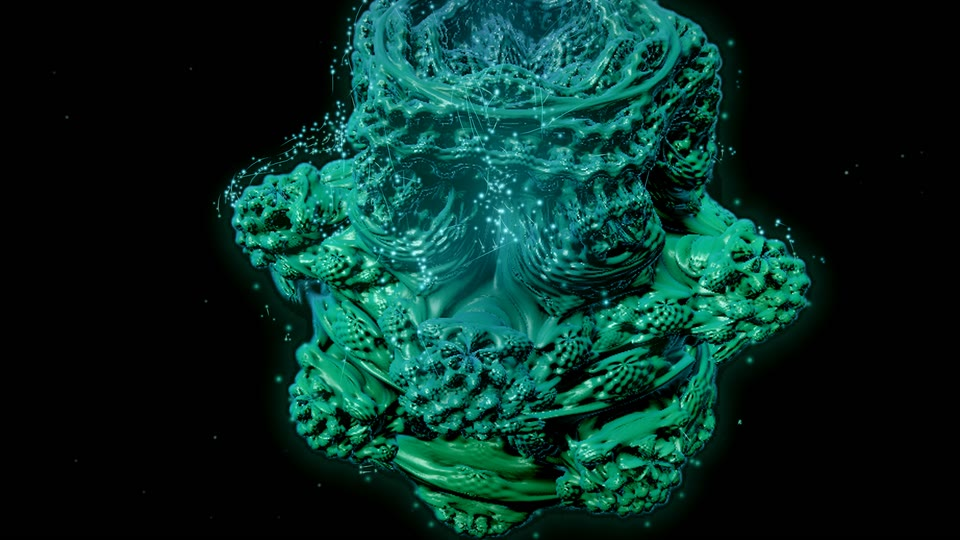
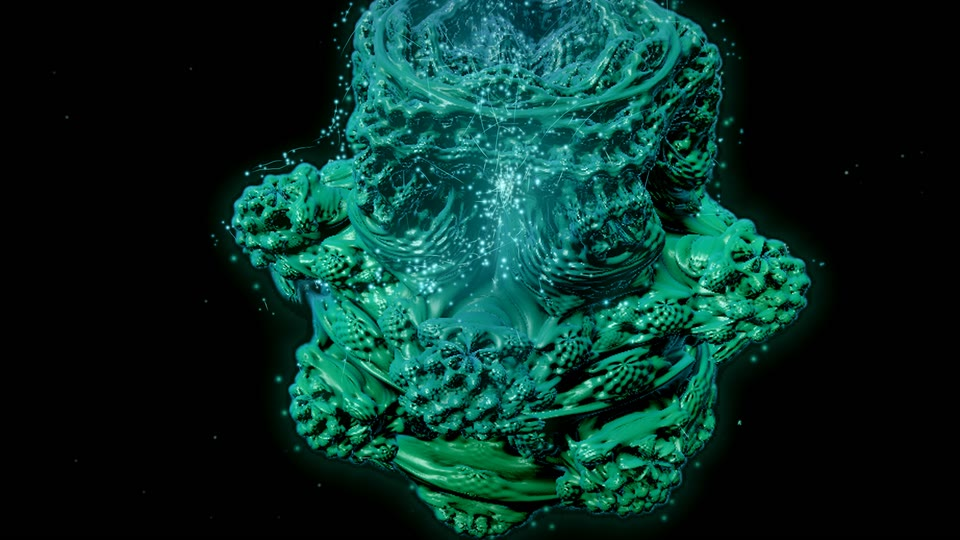
Fractal Continuum life: a gathering's halo is a circle on the surface, not on the map
The orbit the simulation keeps is drawn out to the map ellipse that the chart's stretch turns back
into a circle (a halo's surface roundness 0.71 -> 0.86 between 60 and 110 degrees from the pole).
The active-site test counts the motes drawn to a site (visits saturate at what a site carries).

diff --git a/tests/life-fractal.test.js b/tests/life-fractal.test.js
@@ -56,16 +56,18 @@ test('The life stays on the inhabited surface, in its altitude band; lifecycles 
   run(f,3000);assert.equal(f.digest(),e.digest(),'same inputs, same state');
   const snap=e.snapshot();run(e,200);const d1=e.digest();e.restore(snap);run(e,200);assert.equal(e.digest(),d1,'restore gives the same future');
 });
-test('Motes gather at active sites: a site being worked on (energy, nourishment) draws a gathering that circles it',async()=>{
+test('Motes gather at active sites: a site being worked on (energy, nourishment) draws motes to it and a gathering circles it',async()=>{
   const {eco,life}=await setup();const a=eco(),b=eco();const both=n=>{run(a,n);run(b,n);};both(600);
   // the least visited file site within the life's reach
   const S=a.sites;let k=-1;for(let s=0;s<S.count;s++)if(S.kind[s]!==1&&Math.hypot(S.x[s],S.z[s])<life.SOFT-2&&(k<0||S.visits[s]<S.visits[k]))k=s;const id=S.ids[k];
+  // motes travelling to it or circling it (what a site holds is bounded: visits saturate, the draw does not)
+  const drawn=e=>{let n=0;for(let i=0;i<e.capacity;i++)if(e.alive[i]&&e.sp[i]===life.MOTE&&(e.mode[i]===1||e.mode[i]===2)&&e.tgt[i]===k)n++;return n;};
   // edits on one file: a small perturbation and nourishment every few seconds, as the driver gives them
   let na=0,nb=0,circ=0;
   for(let t=0;t<40;t++){a.influence({kind:'pulse',site:id,amount:.6});a.influence({kind:'nourish',site:id,amount:.4});both(40);
-    if(t>=10){na+=a.sites.visits[k];nb+=b.sites.visits[k];for(let i=0;i<a.capacity;i++)if(a.alive[i]&&a.sp[i]===life.MOTE&&a.mode[i]===2&&a.tgt[i]===k)circ++;}}
-  console.log(`# visits at the active site: ${na.toFixed(0)}, without the work ${nb.toFixed(0)} (circling ${circ})`);
-  assert(na>nb*2+20,`the active site draws a gathering: ${na.toFixed(0)} vs ${nb.toFixed(0)}`);assert(circ>60,'they circle it');
+    if(t>=10){na+=drawn(a);nb+=drawn(b);for(let i=0;i<a.capacity;i++)if(a.alive[i]&&a.sp[i]===life.MOTE&&a.mode[i]===2&&a.tgt[i]===k)circ++;}}
+  console.log(`# motes drawn to the active site: ${na}, without the work ${nb} (circling ${circ})`);
+  assert(na>nb*1.8+50,`the active site draws the motes: ${na} vs ${nb}`);assert(circ>60,'they circle it');
 });
 test('A failing run opens a void over its site and the motes wait at its edge; after the recovery they come back within seconds',async()=>{
   const {eco,life}=await setup();const e=eco(),c=eco();const both=n=>{run(e,n);run(c,n);};both(900);

diff --git a/public/worlds/life/fractal.js b/public/worlds/life/fractal.js
@@ -8,7 +8,8 @@
 // is an azimuthal equidistant map of that sphere around the form's pole (y up: the bulbs' axis of symmetry): the
 // direction at colatitude θ and longitude φ is the point (K θ cos φ, K θ sin φ), and the plane's height y is the
 // altitude above the surface. Arcs from the pole keep their length; across them the map stretches by θ / sin θ (1 at
-// the pole, 1.57 at the equator), the price of one chart over almost the whole surface. The south pole, which the map
+// the pole, 1.57 at the equator), the price of one chart over almost the whole surface (a gathering's orbit is corrected
+// for it: a circle on the surface). The south pole, which the map
 // tears open into its rim, is never inhabited: the life is held within SOFT (135 degrees of the pole: 85 % of the
 // surface; the regions lie between 35 degrees south and 70 north), so nothing crosses the seam. Regions and sites keep
 // their directions, so the habitat sits still in the map whatever the form does (it unfolds, swells, breathes,
@@ -202,6 +203,12 @@ export function createFractalGrammar(recipe){
         if(s===MOTE){
           // a recovered site draws the explorers around it back (the repaired region fills again)
           if(m===MODE.explore)for(let q=0;q<nRev;q++){const k=revived[q],ex=S.x[k]-x,ez=S.z[k]-z,d=hyp(ex,ez);if(d<9&&d>S.r[k]*1.5){const c=1.1*REV[k]*(1-d/9)/d;f[0]+=ex*c;f[2]+=ez*c;}}
+          // a gathering's halo is a circle on the surface, not on the map: across the arcs from the pole the map
+          // stretches by theta / sin(theta), so the orbit the simulation keeps (a circle on the map, around the site at
+          // the mote's own radius) is drawn out to the ellipse that the stretch turns back into a circle
+          if(m===MODE.orbit){const k=api.tgt[i];if(k>=0){const sx=S.x[k],sz=S.z[k],ro=hyp(sx,sz);if(ro>.5){
+            const ex=x-sx,ez=z-sz,d=hyp(ex,ez);if(d>1e-3){const sp=api.species[MOTE],R0=S.r[k]*sp.orbitRadius*(1+sp.orbitJitter*(api.fa[i*2]-.5)*2);
+              const st=stretch(sx,sz),b=(-ex*sz+ez*sx)/(ro*d),a2=1-b*b,se=1/Math.sqrt(a2+b*b/(st*st)),c=R0*(se-1)*1.2*sp.orbit/d;f[0]+=ex*c;f[2]+=ez*c;}}}}
           // seekers swim against the current, and close to their site come in to it (its pull outweighs the trail they
           // followed there)
           if(m===MODE.seek){api.flowAt(x,y,z,fl);const c0=.33*api.params.environment;f[0]-=fl[0]*c0;f[2]-=fl[2]*c0;

diff --git a/docs/worlds/fractal-continuum.md b/docs/worlds/fractal-continuum.md
@@ -229,7 +229,8 @@ is the altitude above the surface. Why this chart:
   poles or the octahedral map's folds across the southern hemisphere;
 - arcs from the pole keep their length; across them the map stretches by θ / sin θ: 1 at the pole, 1.57 at the
   equator, 2.66 at 35° south. An equal-area chart (Lambert's) would stretch the equator by 2 (and 35° south by 4.7)
-  for equal cell areas; a conformal one (stereographic) keeps shapes but shrinks the regions at 35° south 4.7 times;
+  for equal cell areas; a conformal one (stereographic) keeps shapes but shrinks the regions at 35° south 4.7 times.
+  A gathering's orbit is corrected for the stretch (a circle on the surface, not on the map);
 - the regions lie between 35° south and 70° north, and the life is held within **135° of the pole** (85 % of the
   surface): it is steered back from there, the current turns back before it, and a site beyond it (a file far down its
   region's spiral) is never chosen, so nothing reaches the seam. The southern polar cap is uninhabited.
@@ -242,7 +243,7 @@ swells, breathes and blooms under its life.
 - **Motes** (60 %): ride the surface's current and the trails, choose an active site (strength, novelty, nourishment,
   lasting conditions, the energy work and gatherings leave there, the trails to it, and a gathering already circling
   it: winner-take-more up to what a site carries; never a strained site; nearer is better), circle it in a slow halo at
-  their own radius and height and feed, then leave carrying its light (a stronger trail). Those leaving the same site
+  their own radius and height (a circle on the surface) and feed, then leave carrying its light (a stronger trail). Those leaving the same site
   follow the one who left before them, so threads of light run from site to site.
 - **Skimmers** (22 %): small flocks skimming the relief (separation, alignment, cohesion), drawn along the motes'
   trails and toward the energy of the gatherings; a flock grown too large splits.
@@ -262,9 +263,9 @@ through the driver (site conditions and field deposits; nothing is ever placed):
 
 | Intent | The life |
 |---|---|
-| `validation.failed` | The file's site is strained: a void opens over it (reach 2.4 site radii + 1.6 map units, about the world's decohering region); everything is pushed out while the strain lasts and the motes wait at its edge (in the test habitat: 20 % of the life inside it, against the same ecosystem without the failure) |
-| `validation.recovered` | The strain is cleared and for about 25 s the repaired site draws the motes back (14 motes within its reach before, 43 ten seconds after); they travel to it in the valid colour |
-| `structure.modified`, an agent's tool use on a file | A small perturbation and energy at the file's site: the active site draws a gathering (3.2 times the visits of the same site without the work) |
+| `validation.failed` | The file's site is strained: a void opens over it (reach 2.4 site radii + 1.6 map units, about the world's decohering region); everything is pushed out while the strain lasts and the motes wait at its edge (in the test habitat: 7 % of the life inside it, against the same ecosystem without the failure) |
+| `validation.recovered` | The strain is cleared and for about 25 s the repaired site draws the motes back (8 motes within its reach before, 51 ten seconds after); they travel to it in the valid colour |
+| `structure.modified`, an agent's tool use on a file | A small perturbation and energy at the file's site: the active site draws the motes (2.4 times as many travelling to it or circling it as to the same site without the work) |
 | `module.created`, `structure.created`, `validation.passed`, `repository.checkpoint` | Nourishment |
 | `subsystem.created` | Novelty at the new region: explorers come to see |
 | `milestone.achieved` (verified) | A lasting attractor at its region (a new generation inherits it) |
@@ -317,8 +318,8 @@ carry them). Tested in Node:
   prepared in the background, handed over at its anchor) equals a far seek, and the new generation inherits the
   verified milestone's lasting attractor.
 - `tests/life-fractal-ecology.test.js`: ecology 2 is deterministic and neutral at music 0; the share of motes gathered
-  follows the music's `gather` (correlation 0.72 at music 1, 0.81 at 2) and the share travelling its `explore` (0.47,
-  0.68).
+  follows the music's `gather` (correlation 0.78 at music 1, 0.84 at 2) and the share travelling its `explore` (0.65,
+  0.71).
 
 ### Cost
 
@@ -351,8 +352,10 @@ a tick. Presentation: the world's update at a fixed moment 1.15–1.25 ms with l
 
 - An artistic review with the owner, on films of whole sessions rather than stills.
 - **The chart's stretch**: across the arcs from the pole the map stretches by up to 1.57 at the equator (2.66 at 35°
-  south), so a gathering's halo there is an ellipse up to 1.57 times taller than wide on the surface; steering
-  corrected by the chart's metric is not done.
+  south). A gathering's orbit is drawn out to the map ellipse that the stretch turns back into a circle on the surface
+  (between 60° and 110° from the pole a halo's spread east-west against north-south went from 0.71 to 0.86 of a
+  circle; separation and the orbit's tangential drive still act on the map); travel, flocks and the fields'
+  diffusion still see the stretch.
 - **The limb**: inhabitants at their altitude seen edge-on gather along the silhouette into a fringe of light.
 - **Bright identities**: on a light, glittering crystal (Lumen's generated identity) the motes over the lit faces read
   less than over its dark side and on the darker bulbs.
